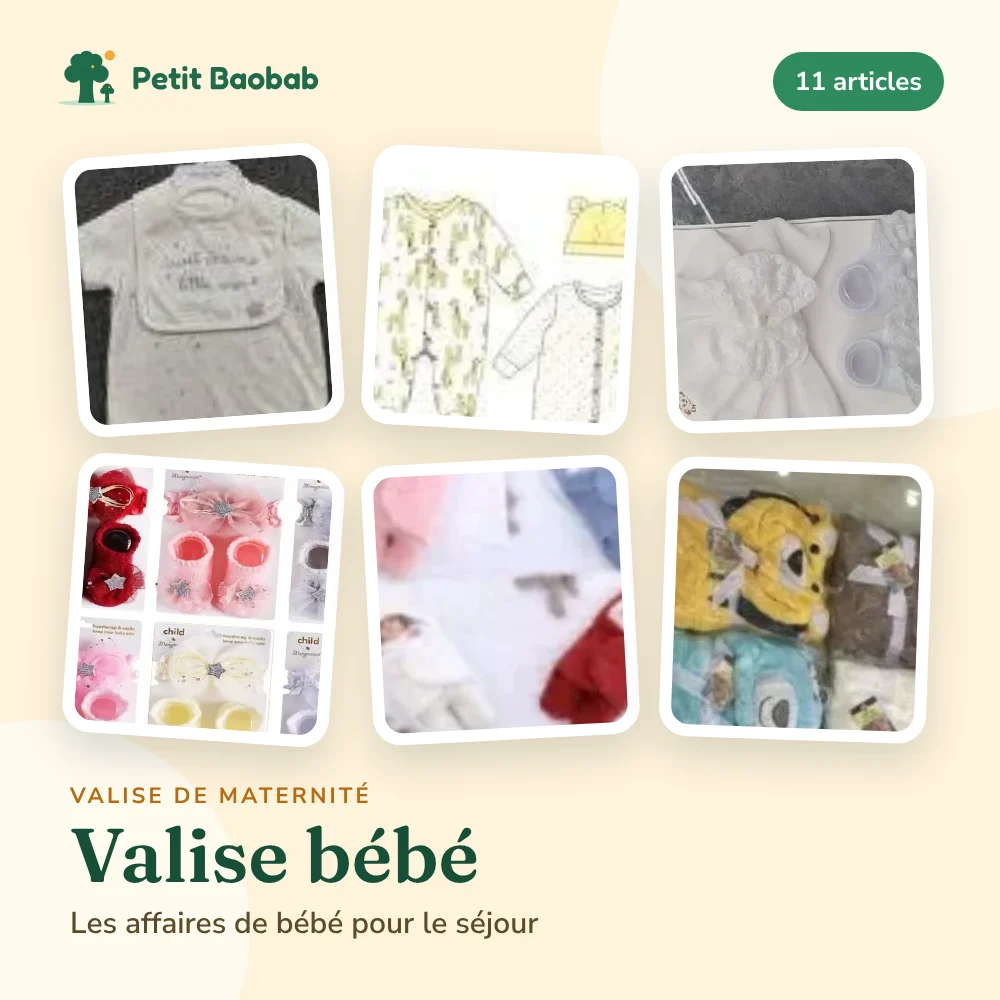
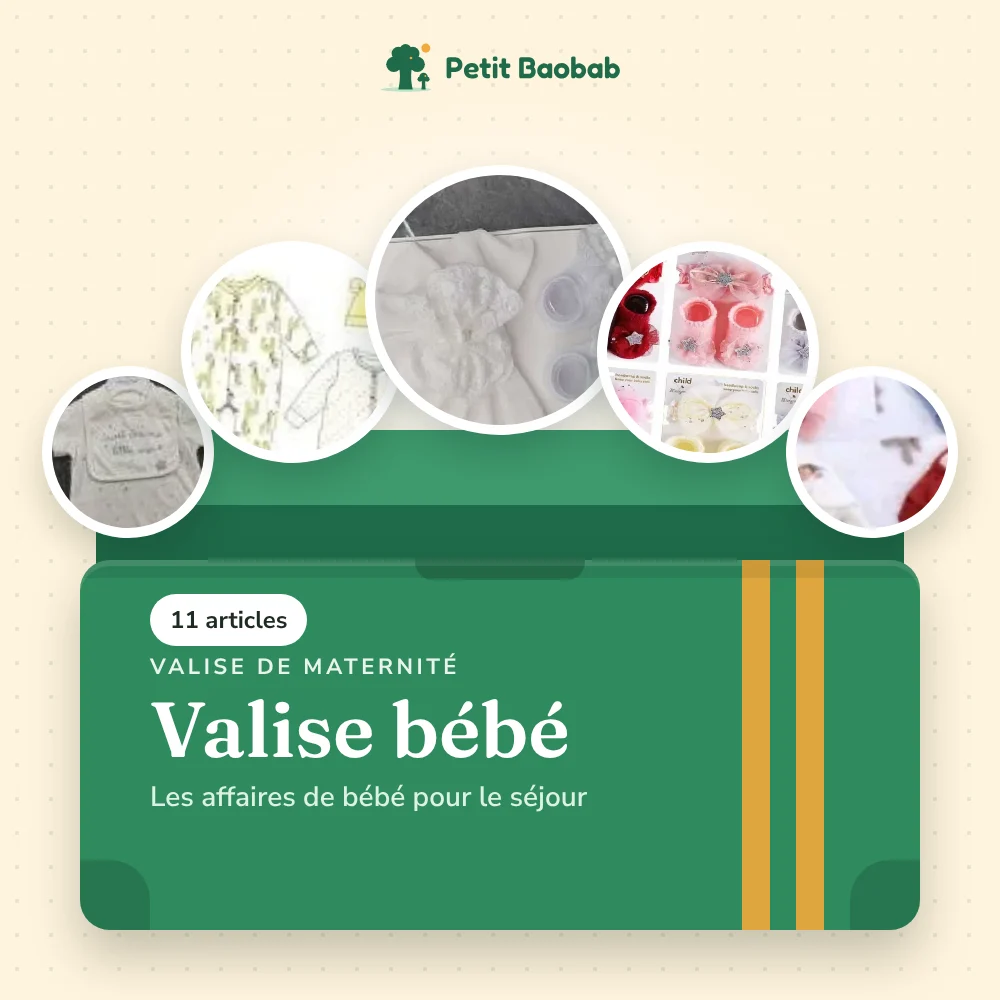
Images des packs redessinées : coffret cadeau et valise ouverte, médaillons des articles
Claude-Session: https://claude.ai/code/session_019Eypp7kRArDkZef2GEFNBa

diff --git a/brand/packs-images.js b/brand/packs-images.js
@@ -39,47 +39,64 @@ function count(p) {
   return (p.items || []).reduce((n, i) => n + (i.qty || 1), 0);
 }
 
+/* Mise en scène « coffret » : les articles sortent d'une boîte cadeau (packs) ou d'une valise ouverte (valises).
+   Les photos sont des médaillons ronds en éventail ; la boîte porte le nom, la phrase d'accroche et le nombre d'articles. */
+const SCENES = {
+  'pack-essentiel':  { bg: '#E7F2EA', panel: '#2E8A5E', inner: '#1F6B4A', lid: '#3E9A6E', ribbon: '#F2A93B', ink: '#FFFFFF', sub: '#DDF1E5', kind: 'box' },
+  'pack-confort':    { bg: '#FFF4DE', panel: '#F2A93B', inner: '#D98E22', lid: '#F6BC5E', ribbon: '#1F6B4A', ink: '#1E2B22', sub: '#4A3A1C', kind: 'box' },
+  'pack-prestige':   { bg: '#DCEBE1', panel: '#174F38', inner: '#0F3826', lid: '#22654A', ribbon: '#E9B949', ink: '#FFF3DC', sub: '#CFE6D8', kind: 'box' },
+  'valise-bebe':     { bg: '#FFF4DE', panel: '#2E8A5E', inner: '#1F6B4A', lid: '#3E9A6E', ribbon: '#F2A93B', ink: '#FFFFFF', sub: '#DDF1E5', kind: 'case' },
+  'valise-maman':    { bg: '#F8EAE0', panel: '#C9734A', inner: '#A85A36', lid: '#D88A62', ribbon: '#FFF3DC', ink: '#FFFFFF', sub: '#FBE3D6', kind: 'case' },
+  'valise-complete': { bg: '#E7F2EA', panel: '#1F6B4A', inner: '#174F38', lid: '#2E8A5E', ribbon: '#F2A93B', ink: '#FFFFFF', sub: '#DDF1E5', kind: 'case' }
+};
 function page(p) {
-  const t = THEMES[p.id];
-  let tiles = [];
-  if (p.id === 'valise-maman') tiles = null;
-  else if (p.id === 'valise-complete') tiles = photos(byId['valise-bebe']).slice(0, 5).map(x => ({ img: x.image })).concat([{ svg: SUITCASE, label: 'maman' }]);
-  else tiles = photos(p).map(x => ({ img: x.image }));
-  const rot = [-4, 3, -2, 4, -3, 2];
-  const mark = MARK.replace(/class="lg-sun"/g, `fill="${t.ribbon === '#F2C14E' ? '#F2C14E' : '#F2A93B'}"`).replace(/class="lg-fruit"/g, 'fill="#F2A93B"')
-    .replace(/class="lg-ground"/g, `fill="${t.dark ? '#2E6B50' : '#BFE3CB'}"`).replace(/class="lg-trunk"/g, `fill="${t.dark ? '#FFF3DC' : '#1F6B4A'}"`).replace(/class="lg-tree"/g, `fill="${t.dark ? '#FFF3DC' : '#1F6B4A'}"`);
-  const items = p.id === 'valise-maman' ? (p.contents || []).slice(0, 6) : [];
-  const body = tiles ? `<div class="grid${tiles.length < 4 ? ' few' : ''}">${tiles.map((x, i) => `<div class="tile" style="--r:${rot[i % 6]}deg">${x.img ? `<div class="ph" style="background-image:url('file://${path.join(ROOT, x.img)}')"></div>` : `<div class="svgt">${x.svg}<span>${x.label}</span></div>`}</div>`).join('')}</div>`
-    : `<div class="maman">${SUITCASE}<ul>${items.map(x => `<li>${x.replace(/^\d+\s*(paquet|lot|paire)?\s*(de|d')?\s*/i, '')}</li>`).join('')}</ul></div>`;
+  const t = THEMES[p.id], c = SCENES[p.id];
+  let pics;
+  if (p.id === 'valise-complete') pics = photos(byId['valise-bebe']).slice(0, 4).map(x => x.image);
+  else pics = photos(p).slice(0, 5).map(x => x.image);
+  // éventail de médaillons : du centre vers les bords, les plus grands au milieu
+  const SLOTS = [[500, 300, 270], [292, 352, 222], [708, 352, 222], [128, 452, 172], [872, 452, 172]];
+  const order = pics.length >= 5 ? [3, 1, 0, 2, 4] : pics.length === 4 ? [1, 0, 2, 4] : [1, 0, 2];
+  const medals = pics.map((src, i) => { const [x, y, d] = SLOTS[order[i] === undefined ? i : order[i]]; return `<div class="medal" style="left:${x - d / 2}px;top:${y - d / 2}px;width:${d}px;height:${d}px;--r:${[-6, 4, -3, 5, -4][i]}deg"><div class="ph" style="background-image:url('file://${path.join(ROOT, src)}')"></div></div>`; }).join('');
+  const chips = p.id === 'valise-maman' ? (p.contents || []).slice(0, 6).map((x, i) => { const pos = [[70, 170], [520, 150], [100, 262], [540, 242], [80, 354], [520, 334]][i]; return `<span class="chip" style="left:${pos[0]}px;top:${pos[1]}px;--r:${[-4, 3, 2, -3, 4, -2][i]}deg">${x.replace(/^\d+\s*(paquet|lot|paire)?\s*(de|d')?\s*/i, '')}</span>`; }).join('') : '';
+  const maman = p.id === 'valise-complete' ? `<div class="medal mam" style="left:${872 - 86}px;top:${452 - 86}px;width:172px;height:172px;--r:5deg"><div class="mm">${SUITCASE}<span>maman</span></div></div>` : '';
+  const mark = (fill, trunk) => MARK.replace(/class="lg-sun"/g, 'fill="#F2A93B"').replace(/class="lg-fruit"/g, 'fill="#F2A93B"').replace(/class="lg-ground"/g, `fill="${fill}"`).replace(/class="lg-trunk"/g, `fill="${trunk}"`).replace(/class="lg-tree"/g, `fill="${trunk}"`);
+  const bow = `<div class="bow"><svg viewBox="0 0 160 90"><path d="M80 45C55 10 18 6 12 24s30 34 68 21z" fill="${c.ribbon}"/><path d="M80 45c25-35 62-39 68-21S118 58 80 45z" fill="${c.ribbon}"/><path d="M80 45 62 88h14l4-12 4 12h14z" fill="${c.ribbon}" opacity=".9"/><circle cx="80" cy="45" r="13" fill="${c.ribbon}" stroke="rgba(0,0,0,.12)" stroke-width="3"/></svg></div>`;
+  const deco = c.kind === 'box' ? '<div class="ribbon-v"></div>' : '<div class="strap s1"></div><div class="strap s2"></div><div class="handle"></div><div class="corner c1"></div><div class="corner c2"></div>';
   return `<!doctype html><html><head><meta charset="utf-8"><style>${FACES}
 *{box-sizing:border-box;margin:0}
-body{width:1000px;height:1000px;background:${t.bg};font-family:"Nunito Sans",sans-serif;color:${t.ink};position:relative;overflow:hidden}
-.blob{position:absolute;border-radius:50%;background:${t.dark ? 'rgba(255,243,220,.06)' : 'rgba(255,255,255,.55)'}}
-.b1{width:620px;height:620px;right:-220px;top:-200px}.b2{width:420px;height:420px;left:-170px;bottom:-140px}
-.brand{position:absolute;left:56px;top:46px;display:flex;align-items:center;gap:14px;font-family:Fredoka;font-weight:600;font-size:32px;color:${t.dark ? '#FFF3DC' : '#1F6B4A'}}
-.brand svg{width:62px;height:62px}
-.count{position:absolute;right:56px;top:52px;background:${t.ribbon};color:${t.dark || t.ribbon === '#1F6B4A' || t.ribbon === '#2E8A5E' ? (t.dark ? '#174F38' : '#FFF') : '#1E2B22'};font-weight:700;font-size:26px;padding:12px 22px;border-radius:999px}
-.grid{position:absolute;left:70px;right:70px;top:150px;height:590px;display:grid;grid-template-columns:repeat(3,1fr);grid-auto-rows:1fr;gap:30px}
-.grid.few{grid-template-columns:repeat(2,1fr);left:180px;right:180px}
-.tile{background:#fff;border-radius:28px;box-shadow:0 18px 40px rgba(20,40,28,${t.dark ? '.45' : '.16'});transform:rotate(var(--r));padding:12px;overflow:hidden}
-.ph{width:100%;height:100%;border-radius:18px;background-size:165%;background-position:42% 26%;background-repeat:no-repeat}
-.svgt{height:100%;display:grid;place-items:center;background:#FFF3DC;border-radius:18px;position:relative}
-.svgt svg{width:78%}
-.svgt span{position:absolute;bottom:12px;font-family:Fredoka;font-weight:600;font-size:26px;color:#1F6B4A}
-.maman{position:absolute;left:70px;right:70px;top:160px;height:570px;display:grid;grid-template-columns:1fr 1fr;align-items:center;gap:30px}
-.maman svg{width:100%}
-.maman ul{list-style:none;padding:0;display:grid;gap:14px}
-.maman li{background:#fff;border-radius:999px;padding:14px 22px;font-weight:700;font-size:25px;box-shadow:0 8px 20px rgba(20,40,28,.1)}
-.maman li::first-letter{text-transform:uppercase}
-.foot{position:absolute;left:70px;right:70px;bottom:56px}
-.kicker{font-weight:700;letter-spacing:.14em;text-transform:uppercase;font-size:22px;color:${t.dark ? '#F2C14E' : '#B66A10'}}
-h1{font-family:Fraunces;font-weight:600;font-size:76px;line-height:1;margin-top:6px}
-.sub{font-size:30px;color:${t.sub};margin-top:10px;font-weight:600}
-.extra{display:inline-block;margin-left:14px;font-size:24px;font-weight:700;color:${t.dark ? '#174F38' : '#fff'};background:${t.dark ? '#F2C14E' : '#1F6B4A'};padding:6px 16px;border-radius:999px;vertical-align:middle}
-</style></head><body><div class="blob b1"></div><div class="blob b2"></div>
-<div class="brand"><svg viewBox="0 0 120 120">${mark}</svg>Petit Baobab</div><div class="count">${count(p)} ${p.id === 'valise-complete' ? 'valises' : 'articles'}</div>
-${body}
-<div class="foot"><div class="kicker">${t.kicker}</div><h1>${t.title}${t.extra ? `<span class="extra">${t.extra}</span>` : ''}</h1><div class="sub">${p.tagline || ''}</div></div>
+body{width:1000px;height:1000px;background:${c.bg};font-family:"Nunito Sans",sans-serif;position:relative;overflow:hidden}
+.dots{position:absolute;inset:0;background-image:radial-gradient(rgba(31,107,74,.10) 2px,transparent 2.5px);background-size:34px 34px}
+.halo{position:absolute;left:150px;top:90px;width:700px;height:560px;border-radius:50%;background:radial-gradient(closest-side,rgba(255,255,255,.95),rgba(255,255,255,0))}
+.brand{position:absolute;left:0;right:0;top:40px;display:flex;justify-content:center;align-items:center;gap:12px;font-family:Fredoka;font-weight:600;font-size:30px;color:#1F6B4A}
+.brand svg{width:54px;height:54px}
+.inner{position:absolute;left:96px;right:96px;top:505px;height:110px;background:${c.inner};border-radius:26px 26px 0 0}
+.lid{position:absolute;left:560px;top:420px;width:360px;height:110px;background:${c.lid};border-radius:22px;transform:rotate(14deg);transform-origin:left bottom;box-shadow:0 10px 24px rgba(0,0,0,.12)}
+.case .lid{left:96px;width:808px;top:430px;height:90px;transform:none;border-radius:30px 30px 8px 8px}
+.medal{position:absolute;border-radius:50%;background:#fff;padding:10px;box-shadow:0 18px 36px rgba(20,40,28,.22);transform:rotate(var(--r))}
+.medal .ph{width:100%;height:100%;border-radius:50%;background-size:165%;background-position:42% 26%;background-repeat:no-repeat}
+.mm{width:100%;height:100%;border-radius:50%;background:#FFF3DC;display:grid;place-items:center;position:relative;overflow:hidden}
+.mm svg{width:62%;margin-top:-14px}.mm span{position:absolute;bottom:18px;font-family:Fredoka;font-weight:600;font-size:22px;color:#1F6B4A}
+.chip{position:absolute;background:#fff;border-radius:999px;padding:13px 22px;font-weight:700;font-size:26px;color:#3A2A20;box-shadow:0 10px 24px rgba(20,40,28,.14);transform:rotate(var(--r));white-space:nowrap}
+.chip::first-letter{text-transform:uppercase}
+.front{position:absolute;left:80px;right:80px;top:560px;bottom:70px;background:${c.panel};border-radius:30px;box-shadow:0 26px 50px rgba(20,40,28,.25), inset 0 6px 0 rgba(255,255,255,.12);overflow:hidden;padding:92px 70px 0;color:${c.ink}}
+.front::after{content:"";position:absolute;left:0;right:0;top:0;height:18px;background:rgba(0,0,0,.08)}
+.ribbon-v{position:absolute;left:auto;right:150px;top:0;bottom:0;width:58px;background:${c.ribbon};opacity:.95}
+.bow{position:absolute;left:${1000 - 80 - 150 - 29 - 95}px;top:508px;width:190px;z-index:3}
+.strap{position:absolute;top:0;bottom:0;width:28px;background:${c.ribbon};opacity:.9}.s1{right:150px}.s2{right:96px}
+.handle{position:absolute;left:50%;top:-6px;width:170px;height:26px;margin-left:-85px;border-radius:0 0 18px 18px;background:rgba(0,0,0,.18)}
+.corner{position:absolute;bottom:0;width:70px;height:70px;background:rgba(0,0,0,.14)}.c1{left:0;border-radius:0 40px 0 0}.c2{right:0;border-radius:40px 0 0 0}
+.tag{position:relative;z-index:2;display:inline-block}
+.kicker{font-weight:700;letter-spacing:.16em;text-transform:uppercase;font-size:22px;opacity:.9}
+h1{font-family:Fraunces;font-weight:600;font-size:78px;line-height:1;margin-top:8px}
+.sub{font-size:28px;font-weight:600;color:${c.sub};margin-top:10px;max-width:560px}
+.count{position:absolute;left:70px;top:34px;z-index:2;background:#fff;color:#1E2B22;font-weight:700;font-size:24px;padding:10px 20px;border-radius:999px}
+</style></head><body class="${c.kind}"><div class="dots"></div><div class="halo"></div>
+<div class="brand"><svg viewBox="0 0 120 120">${mark('#BFE3CB', '#1F6B4A')}</svg>Petit Baobab</div>
+<div class="lid"></div><div class="inner"></div>
+${medals}${maman}${chips}
+<div class="front">${deco}<span class="count">${count(p)} ${p.id === 'valise-complete' ? 'valises' : 'articles'}</span><div class="tag"><div class="kicker">${t.kicker}</div><h1>${t.title}</h1><div class="sub">${t.extra ? t.extra.replace(/^\+ /, 'Avec ') + ' · ' : ''}${p.tagline || ''}</div></div></div>
+${c.kind === 'box' ? bow : ''}
 </body></html>`;
 }
 
